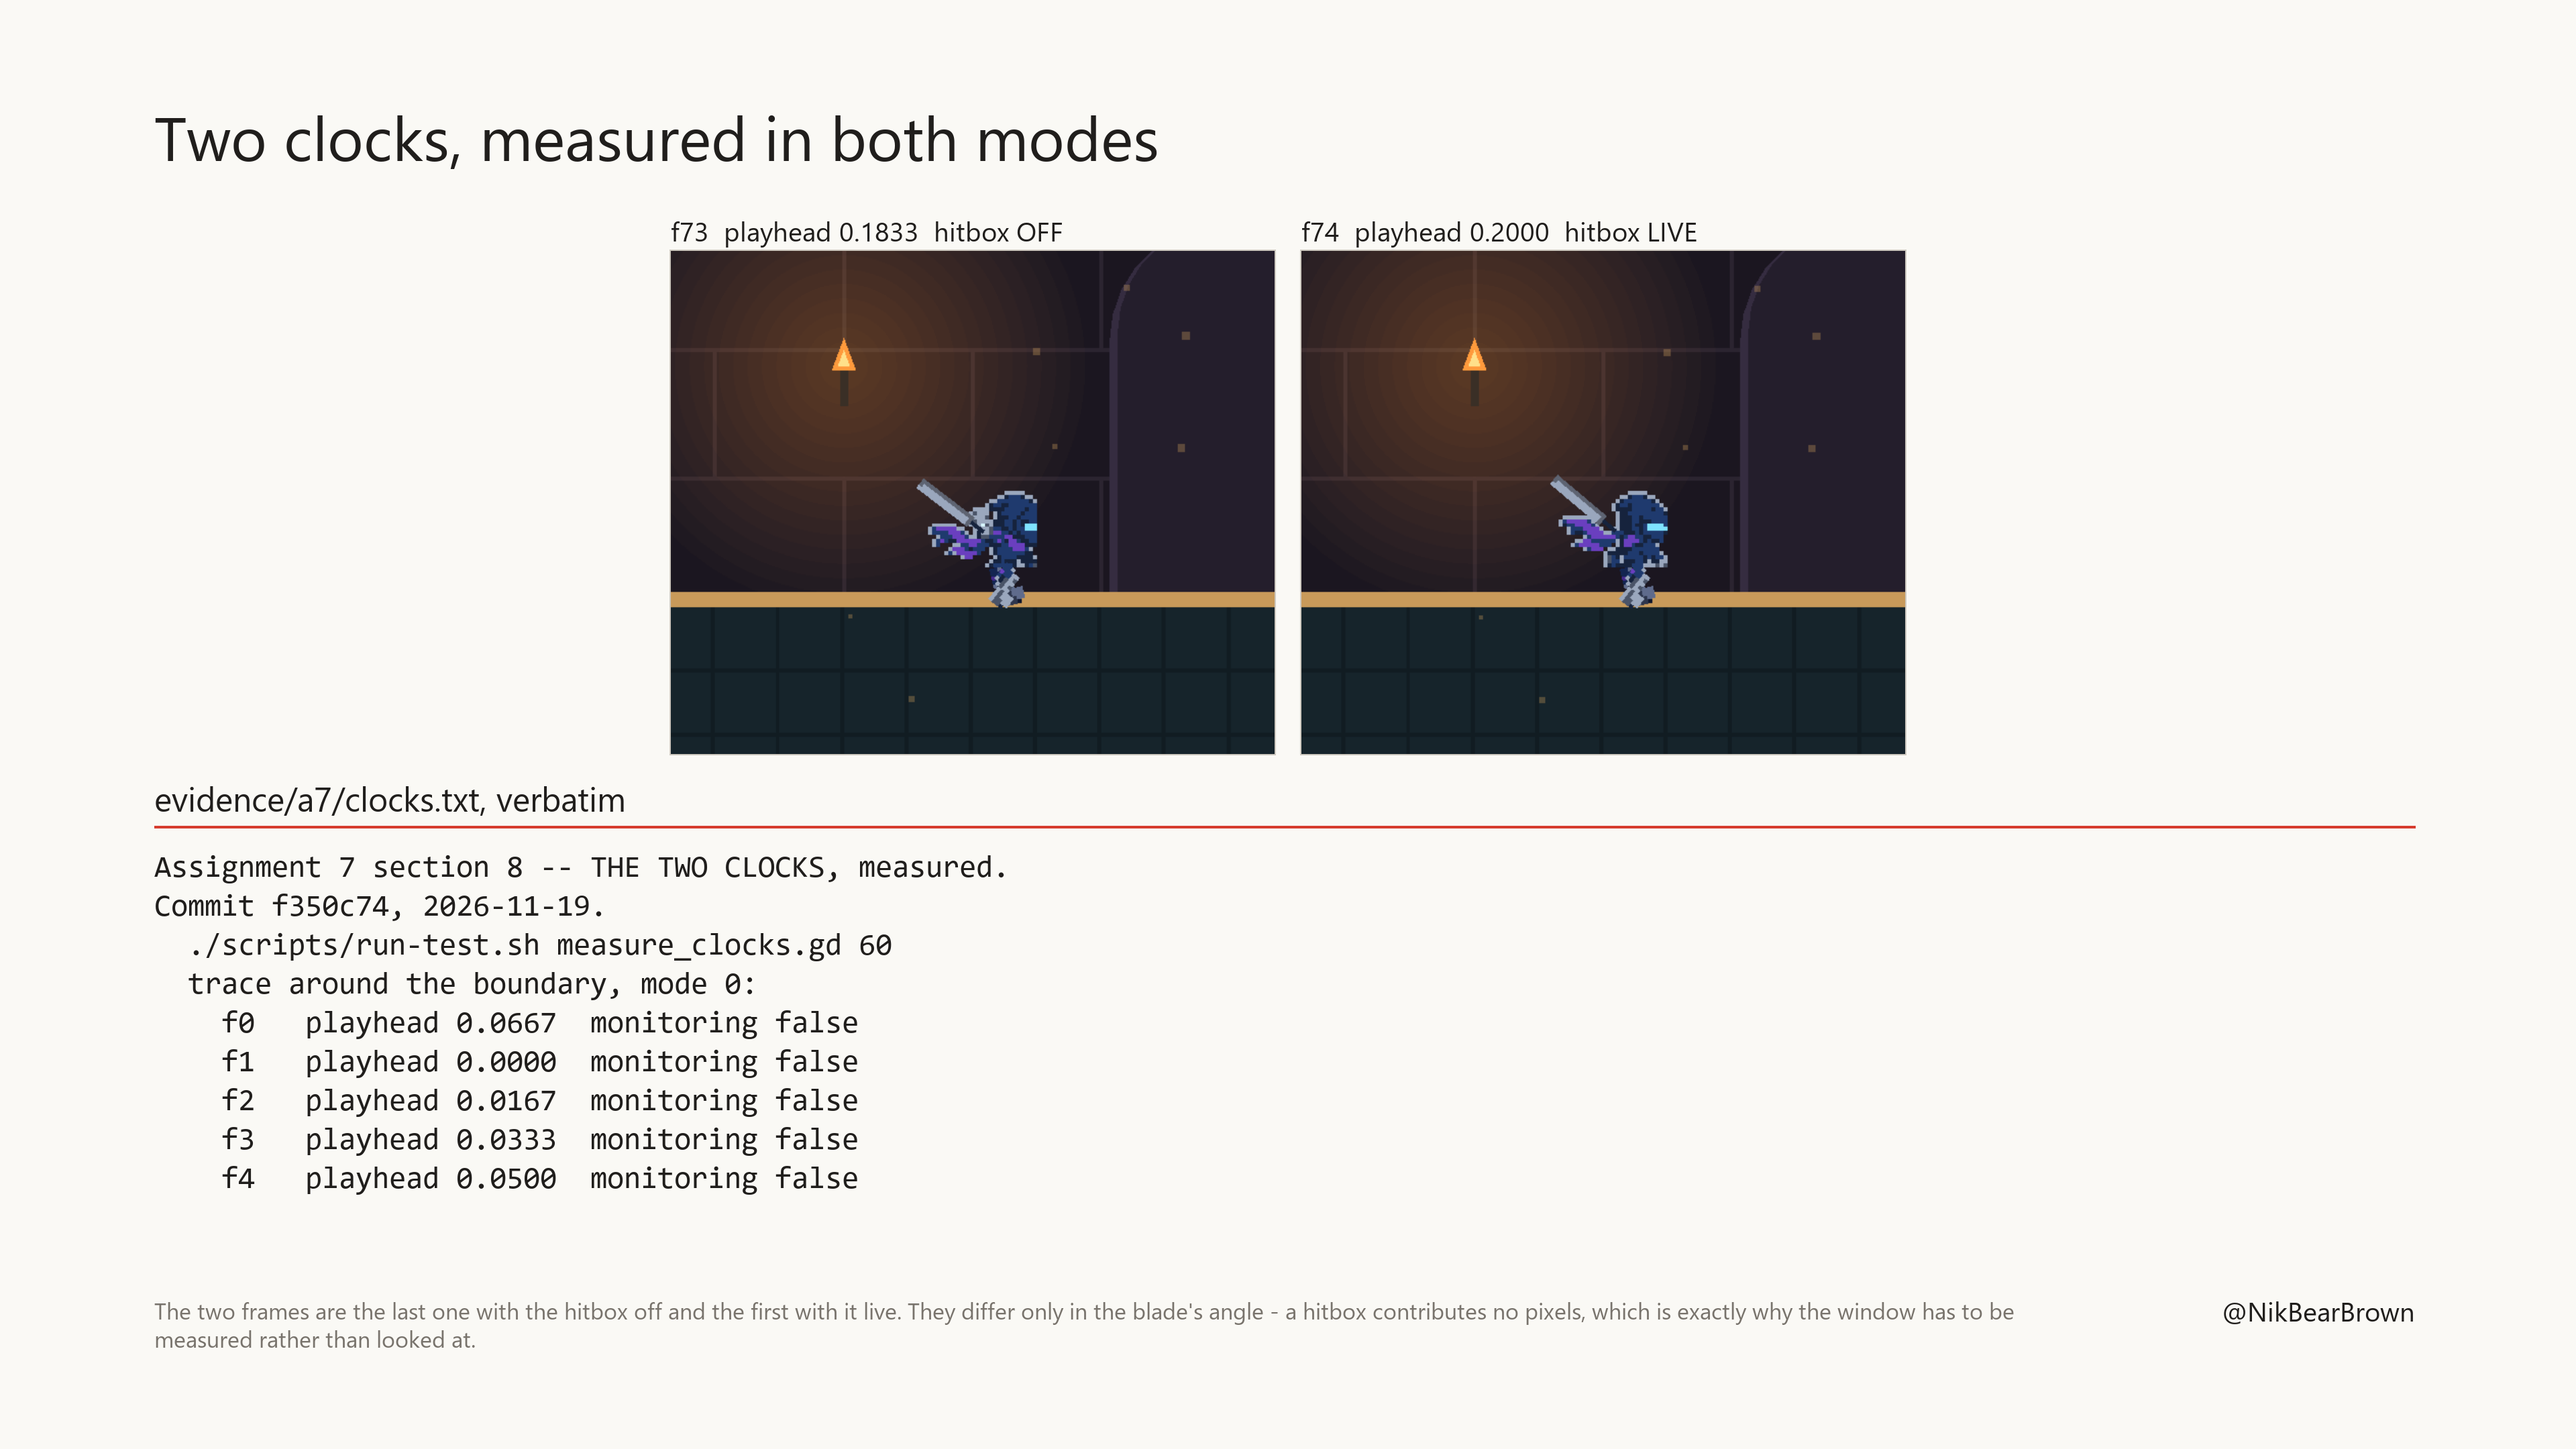
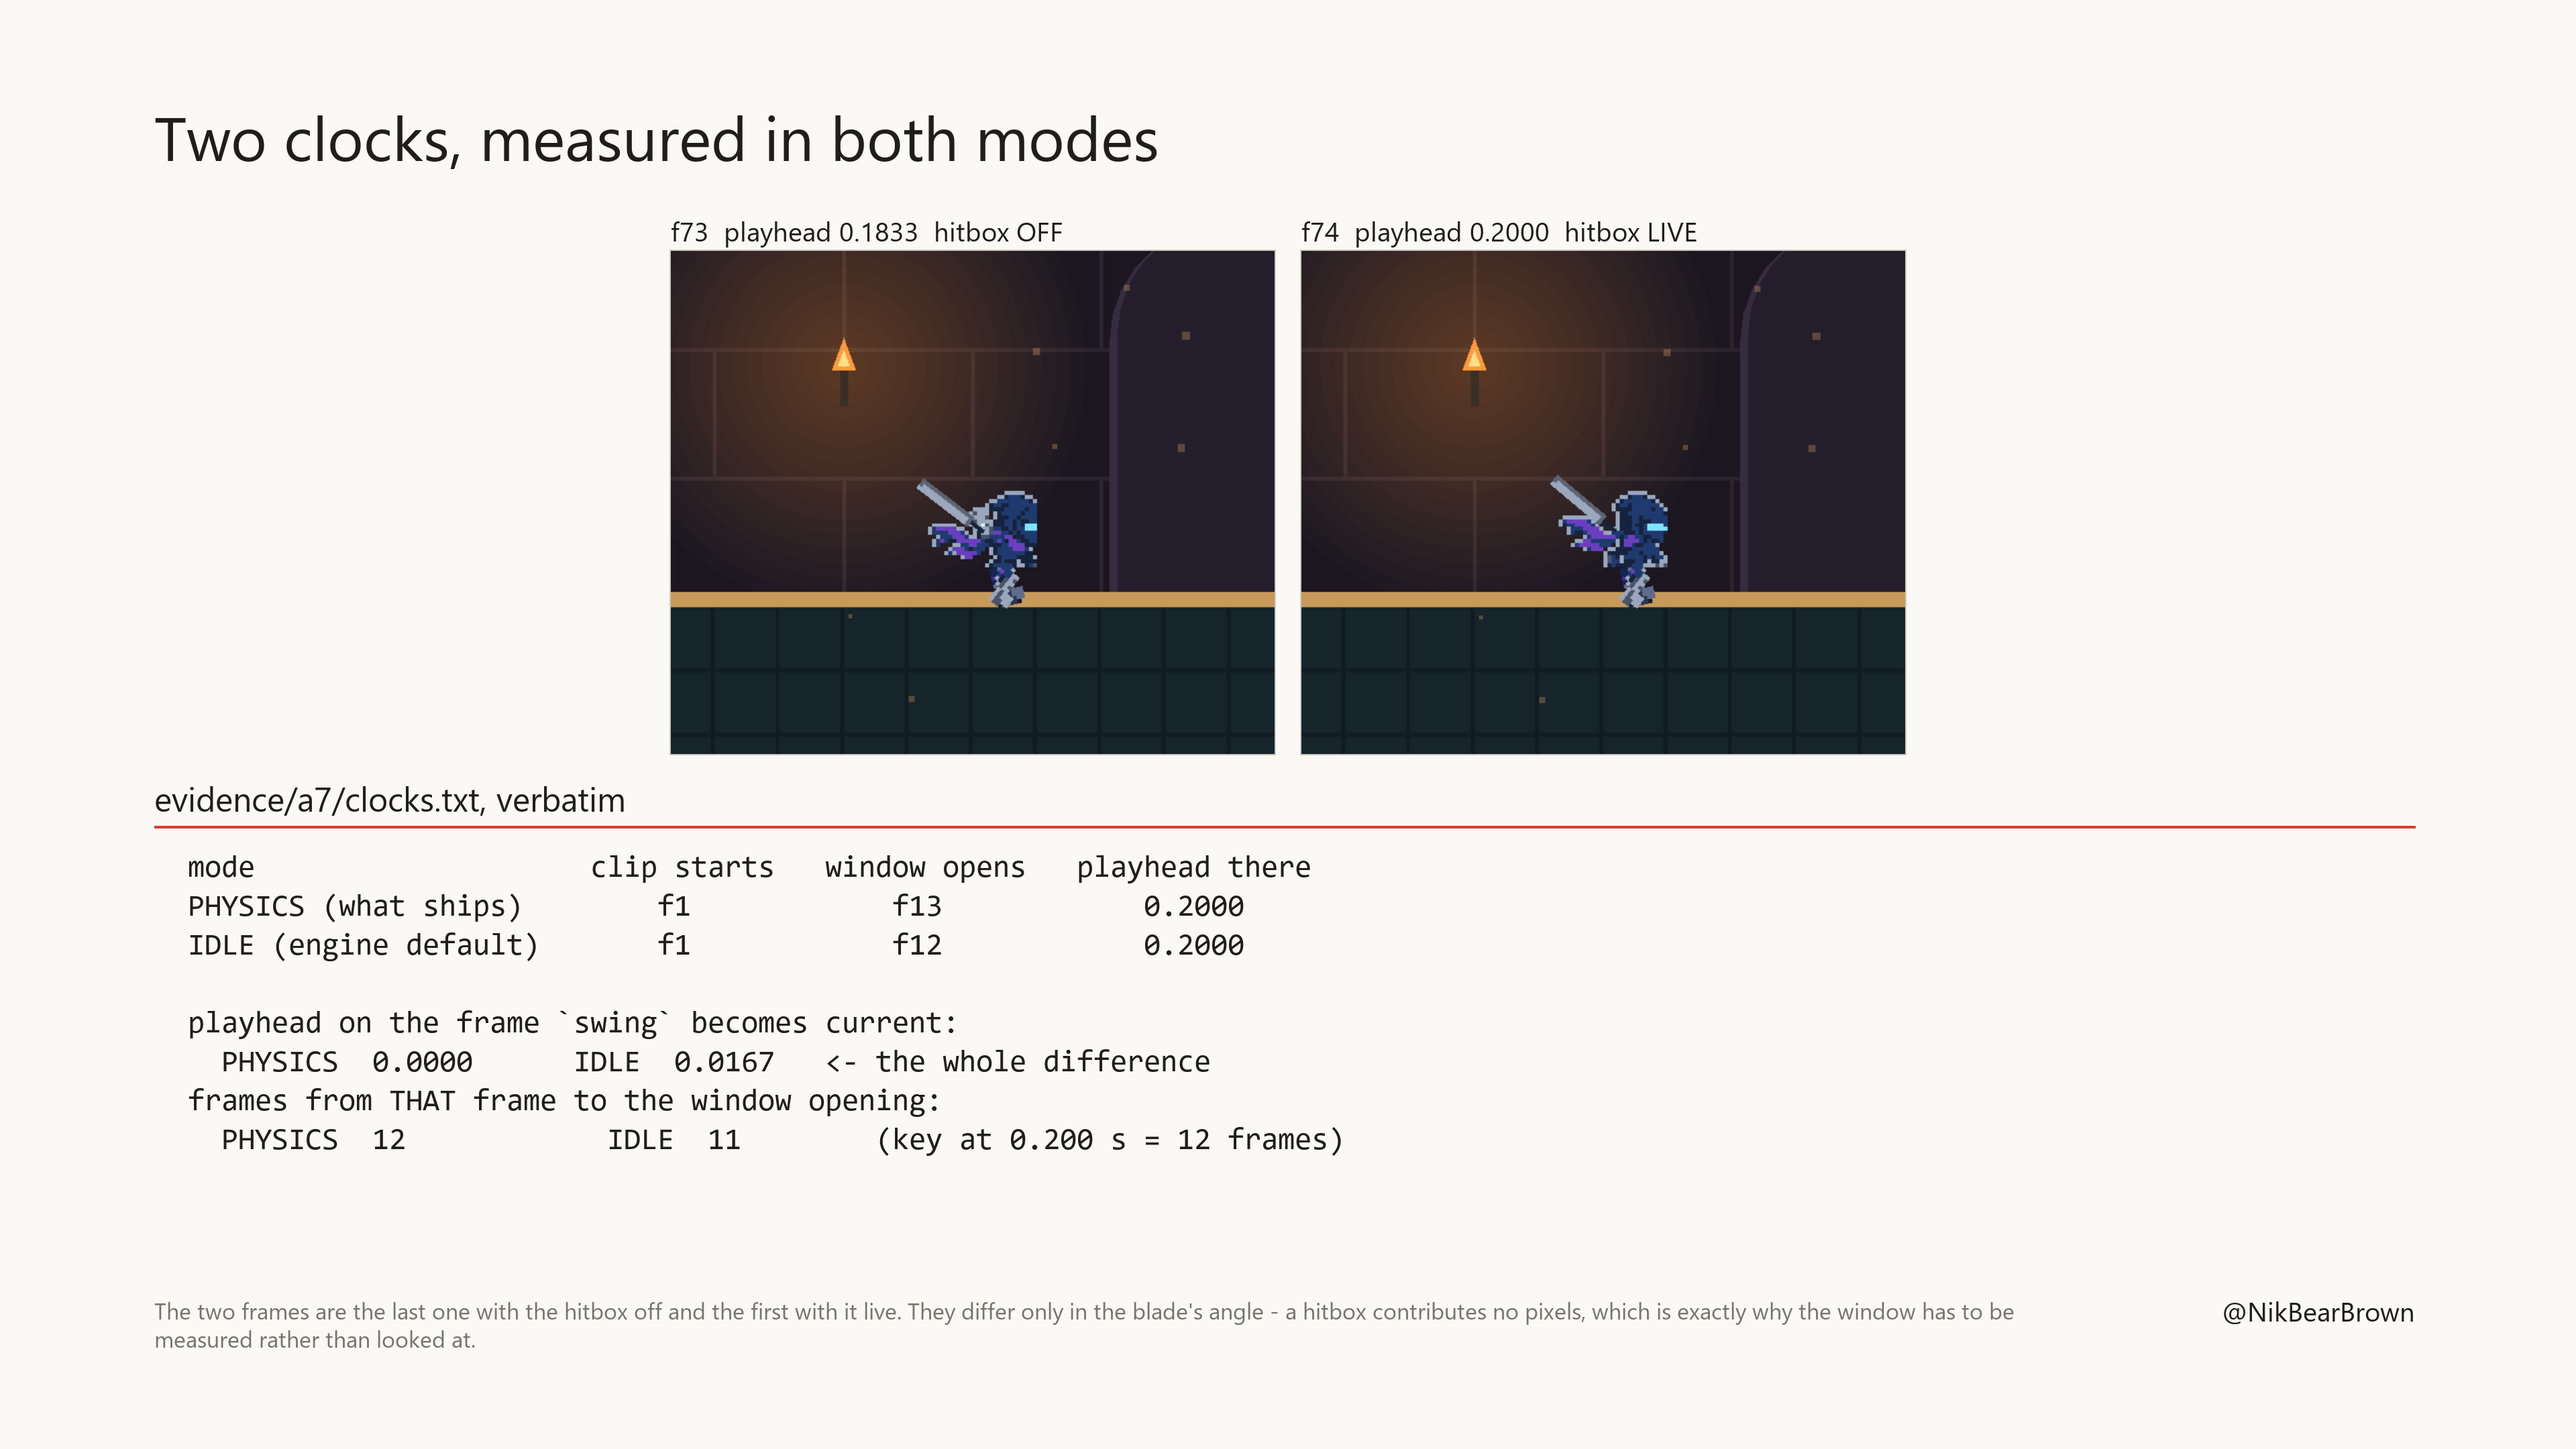
A7 film: the master, and a card that showed the wrong rows of its own file
TheLostAnimation_TiantongZhang.mp4 -- 3840x2160, 30 fps, 9:30.57, 18/18
slots filled. SHA-256 6eb488d454fc98899c4ed77445250247c80bd2b5883810db88469c39e8e5646f

**B09's card showed a frame trace instead of the two-mode table.** The beat
whose narration says "the run, both modes" showed nine lines of mode 0's
frame-by-frame trace and no comparison at all. The selector was "the first
nine printable lines under 92 characters", which is a way of saying
"whatever comes first". It locates the summary block by its own column
header now and STOPS if it is not there.

The ledger hashed that card and passed. A PNG's hash says nothing about
whether the right rows are on it. It was found by extracting eighteen frames
from the finished master and looking at them -- the third silent
presentation fault in this film, after the clipped code panel and the
ignored prop name, and all three have the same shape: the tool succeeded and
the output was wrong.

evidence/a7/clocks.txt's header named commit f350c74, at which
measure_clocks.gd DOES NOT EXIST -- the run happened before the commit that
added the file. Corrected to say what was actually measured, plus the check
that it still holds at the pin: git diff reports the file unchanged from
37bcc37 to b33b06c.

Verified before the tag:
  82 / 79 / 26 / 60 / 15 / 13 / 5, 0 failures; step-dust 26 at 30/60/144
  check_claude_refs: 61 assertions, 0 problems
  git diff b33b06c..HEAD -- godot/            prints nothing
[…]

Changed region(s): [[0.0625, 0.5894, 0.5, 0.8375], [0.4688, 0.7755, 0.5312, 0.8065]]

diff --git a/scripts/compose_animation_evidence.py b/scripts/compose_animation_evidence.py
@@ -310,10 +310,28 @@ def card_b09() -> list[str]:
     if not src.is_file():
         raise SystemExit("missing %s -- run scripts/run-test.sh "
                          "measure_clocks.gd 60 and record it" % src)
-    text = io.open(src, encoding="utf-8").read().split("\n")
-    keep = [r.rstrip() for r in text
-            if r.strip() and not r.startswith(("PASS", "FAIL", "Godot Engine"))]
-    lines = [r for r in keep if len(r) < 92][:9]
+    text = [r.rstrip() for r in io.open(src, encoding="utf-8").read().split("\n")]
+
+    # **The SUMMARY block, located by its own column header** -- not the
+    # first nine printable lines, which is what this did first and which
+    # drew the mode-0 frame trace onto the card whose subject is both modes.
+    head = next((i for i, r in enumerate(text)
+                 if "clip starts" in r and "window opens" in r), -1)
+    if head < 0:
+        raise SystemExit(
+            "%s has no summary block -- looked for a row containing both "
+            "'clip starts' and 'window opens'. The card is not drawn from "
+            "whatever the file happens to begin with." % src.name)
+    lines = []
+    for r in text[head:]:
+        if r.startswith(("PASS", "FAIL")) or "WHAT THIS MEASURES" in r:
+            break
+        lines.append(r)
+    lines = [r for r in lines if len(r) < 92]
+    while lines and not lines[-1].strip():
+        lines.pop()
+    if not any("PHYSICS" in r for r in lines) or not any("IDLE" in r for r in lines):
+        raise SystemExit("%s: the summary block names only one mode" % src.name)
 
     # The frame the window actually opens on, found in the take rather than
     # asserted: the first frame of the first swing whose hitbox is live.

diff --git a/SUBMISSION.md b/SUBMISSION.md
@@ -8,16 +8,22 @@
 
 **GitHub repository URL:** <https://github.com/TiantongZhang1/walker-the-lost-TiantongZhang>
 
-**Git tag and submitted commit SHA:** tag **`a7`** — _PENDING, tagged after
-the film is rendered._ A commit cannot carry its own SHA, so it goes in the
-Canvas note and is recoverable with `git rev-list -n 1 a7`.
+**Git tag and submitted commit SHA:** tag **`a7`**. A commit cannot carry
+its own SHA, so it goes in the Canvas note and is recoverable with
+`git rev-list -n 1 a7`.
 
-**Game-source revision shown in the film:** _PENDING._ Every code panel,
-every hash and every capture in the film will be taken at one revision, and
-`git diff <that sha>..a7 -- godot/` is the check that nothing under `godot/`
-moved afterwards.
+**Game-source revision shown in the film:** **`b33b06c`**. Every code panel,
+every hash and every capture in the film is taken at that one revision, and
+**`git diff b33b06c..a7 -- godot/` prints nothing** — which is the check that
+says so. Commits after it add film documentation and film scripts only.
 
-**Film link and SHA-256:** _PENDING._
+**The film:** `TheLostAnimation_TiantongZhang.mp4` —
+3840 × 2160, 30 fps, **9:30.57** (570.567 s), 34.3 MB, 18 beats.
+
[1 lines of base64/hex data omitted]
+
+**Film link:** _PENDING — the upload is mine to do; the hash above is what
+the uploaded file must match._
 
 **Godot version, renderer, and operating system:** Godot
 **4.7.2.stable.official** `ed1daf0bf`, **Forward+** (Vulkan 1.4.357),

diff --git a/youtube/claude-liam-walker-the-lost-animation-gamedev/SOURCES.md b/youtube/claude-liam-walker-the-lost-animation-gamedev/SOURCES.md
@@ -165,10 +165,12 @@ film found in them:
 
 | | |
 |---|---|
-| Rendered by | `./art final`, 3840 × 2160, 30 fps |
-| Length | _PENDING — filled when the master is rendered_ |
-| SHA-256 | _PENDING_ |
-| Link | _PENDING_ |
+| File | `exports/landscape/claude-liam-walker-the-lost-animation-gamedev.mp4` |
+| Rendered by | `./art final`, 3840 × 2160, 30 fps, h264 + aac 48 kHz |
+| Length | **9:30.57** — 570.567 s, 18/18 slots filled |
+| Size | 35,983,725 bytes |
[1 lines of base64/hex data omitted]
+| Link | _PENDING — the upload is the author's_ |
 
 **`build-state.json` is not committed.** It is rewritten on every render, full
 of absolute paths, and names the export under its pre-rename slug. Its one

diff --git a/youtube/claude-liam-walker-the-lost-animation-gamedev/_qc/REPORT.md b/youtube/claude-liam-walker-the-lost-animation-gamedev/_qc/REPORT.md
@@ -1,0 +1,5 @@
+# Gate V — visual QC report
+
+Frames sampled: 36  ·  BLOCKER: 0  ·  MAJOR: 0
+
+Clean — no BLOCKER/MAJOR defects. ✓
